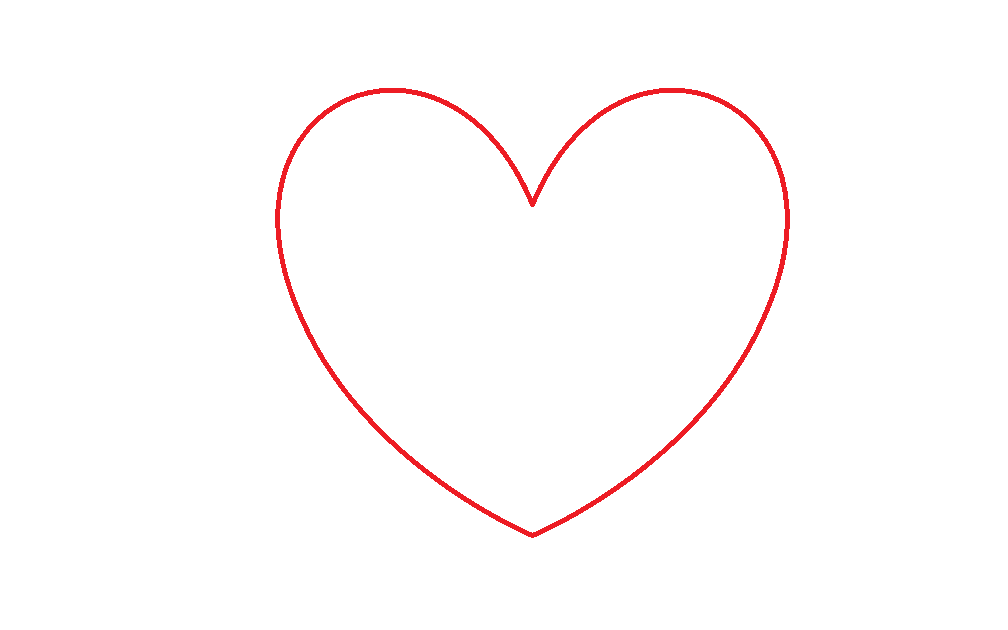
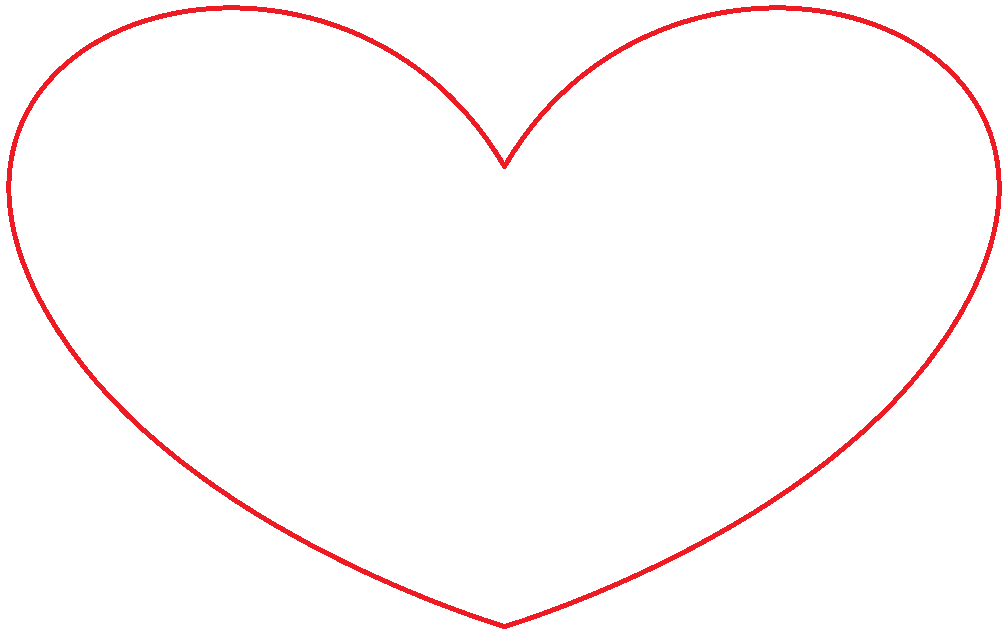
moi

diff --git a/index.html b/index.html
@@ -11,9 +11,10 @@
         }
         img {
             display: block;
+            margin-top: 30%;
             margin-left: auto;
             margin-right: auto;
-            width: 50%;
+            width: 60%;
         }
     </style>
 </head>
